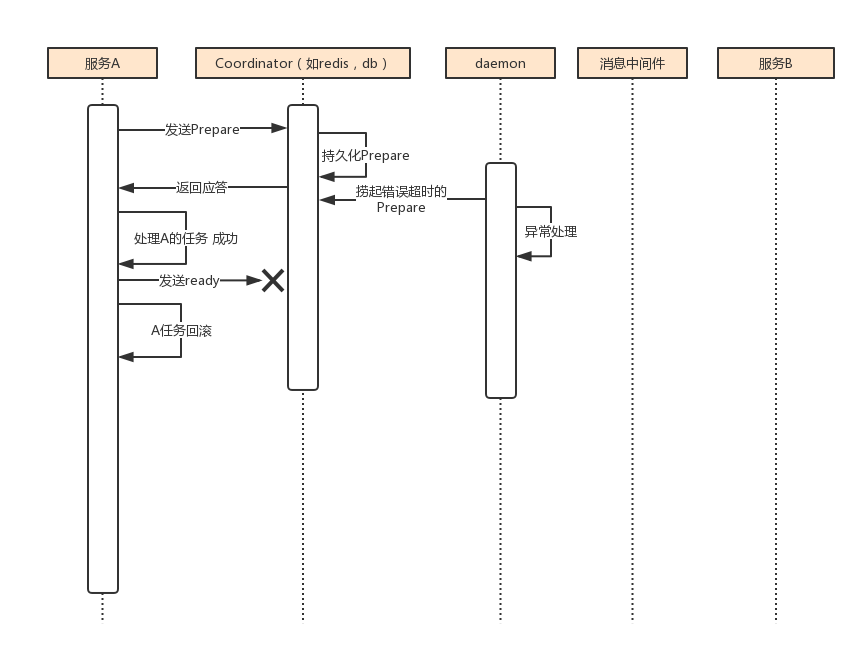
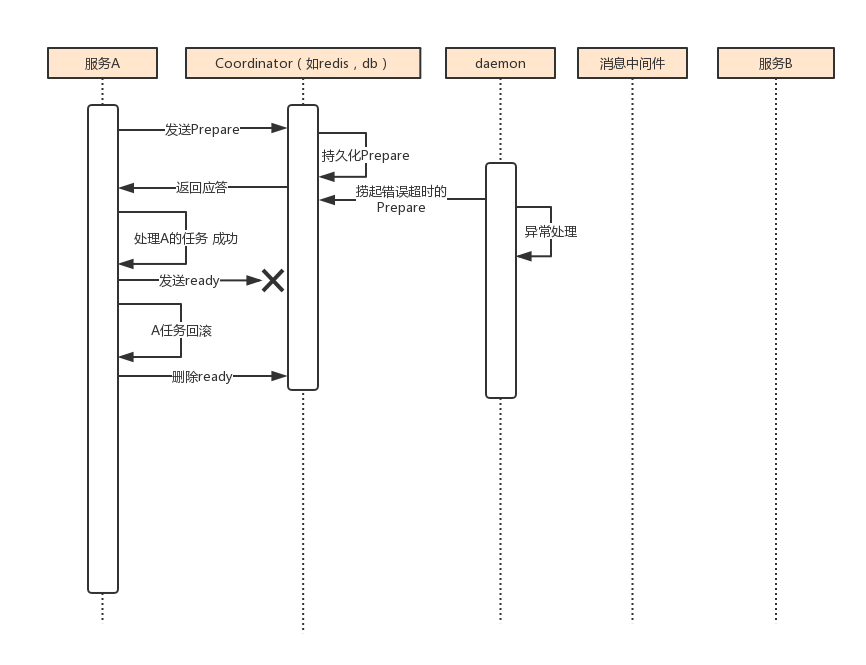
Update by Travis-CI 🎈

diff --git a/2018/12/04/分布式事务：基于可靠消息服务/index.html b/2018/12/04/分布式事务：基于可靠消息服务/index.html
@@ -106,7 +106,7 @@
 <meta property="og:image" content="https://github.com/7le/7le.github.io/raw/master/image/dis/other1.jpg">
 <meta property="og:image" content="https://github.com/7le/7le.github.io/raw/master/image/dis/other2.jpg">
 <meta property="og:image" content="https://github.com/7le/7le.github.io/raw/master/image/dis/other3.jpg">
-<meta property="og:updated_time" content="2018-12-12T15:24:05.668Z">
+<meta property="og:updated_time" content="2018-12-13T15:22:12.971Z">
 <meta name="twitter:card" content="summary">
 <meta name="twitter:title" content="分布式事务：基于可靠消息服务">
 <meta name="twitter:description" content="微服务倡导将复杂的单体应用拆分为若干个功能简单、松耦合的服务，而于此同时就会引入多个服务之间的分布式事务的问题。">
@@ -412,7 +412,7 @@
 <p>Coordinator提供了接口可以自己来实现，我默认实现的方式是用redis。对于这类中间件在生产环境中网络传输是有可能丢失的。</p>
 </blockquote>
 <p><img src="https://github.com/7le/7le.github.io/raw/master/image/dis/other2.jpg" alt="other2"></p>
-<p>上图表现的是发送ready记录的时候，失败了。这时候对于服务A是会收到异常或者收不到应答，这时候可以直接将之前的任务A进行回滚。同样如果异常是发生在发送prepare的情况下，这时候服务A还没执行任务也不会有影响。</p>
+<p>上图表现的是发送ready记录的时候，失败了。这时候对于服务A是会收到异常或者收不到应答，这时候可以直接将之前的任务A进行回滚,任务A在回滚的时候会触发删除ready的操作。同样如果异常是发生在发送prepare的情况下，这时候服务A还没执行任务也不会有影响。</p>
 <blockquote>
 <p>分析完服务A，Coordinator和消息中间件之间的一些情况后，现在分析下消息中间件和服务B之间的一些特殊情况。</p>
 </blockquote>
@@ -424,9 +424,16 @@
 <blockquote>
 <p>最后整理一下整个中间件的设计思路</p>
 </blockquote>
-<p>上面已经分析了下游服务和消息中间，我们可以通过消息中间件投递的可靠性来保证。 那么我们要实现分布式事务，剩下的就是要保证上游服务执行的任务和向消息中间件投递消息这2个操作的原子性。</p>
+<p>上面已经分析了下游服务和消息中间件，我们可以通过消息中间件投递的可靠性来保证。 那么我们要实现分布式事务，剩下的就是要保证上游服务执行的任务和向消息中间件投递消息这2个操作的原子性。</p>
 <p>这时候一般就会有两种方案，同步和异步通信。通过之前的时序图，很显然上游系统和消息中间件之间采用的是异步通信，这主要是为了提高系统并发度，另外业务系统直接和用户打交道，用户体验尤为重要，因此这种异步通信方式能够极大程度地降低用户等待时间。</p>
-<p>而异步通信的方式，rabbitmq也其实有提供事务机制，使用txSelect(), txCommit()以及txRollback()来实现，通过测试抓包发现，Tx.Commit与Tx.Commit-Ok之间的时间间隔会比较长，简单的测试能到300ms，这是很耗时的。所以我没有用这种方式，而是引入一个Coordinator（协调者）来实现，另外还有一个比较关键的daemon（守护线程），是处理在Coordinator一些错误超时的记录。通过这样的组合来替代消息中间件在执行事务遇到超时情况下的超时询问机制。</p>
+<p>而异步通信的方式，rabbitmq也其实有提供事务机制，使用txSelect(), txCommit()以及txRollback()来实现，通过测试抓包发现，Tx.Commit与Tx.Commit-Ok之间的时间间隔会比较长，简单的测试能到300ms，这是很耗时的。所以我没有用这种方式，而是引入一个Coordinator（协调者）来实现。</p>
+<p>另外还有一个比较关键的daemon（守护线程），是处理在Coordinator一些错误超时的记录（类似Rocketmq的超时询问机制）。所以服务A除了实现正常的业务流程外，还需提供一个事务询问的接口，供Coordinator调用。当有ready超时就会触发访问这个回查接口，该接口会返回三种结果：                                                                                                              </p>
+<ul>
+<li>提交 将该消息投递</li>
+<li>回滚 直接将条消息丢弃</li>
+<li>处理中 继续等待，重置时间。</li>
+</ul>
+<p>这样就能保证上游服务和消息中间件的原子性了，再通过消息中间件可靠的投递结合下游服务，就完成了分布式事务。</p>
 <hr>
 <p><a href="https://github.com/7le" target="_blank" rel="noopener">Github</a> 不要吝啬你的star ^.^<br><a href="https://7le.top" target="_blank" rel="noopener">更多精彩 戳我</a></p>
 

diff --git a/2017/06/25/RESTful架构/index.html b/2017/06/25/RESTful架构/index.html
@@ -103,7 +103,7 @@
 <meta property="og:description" content="在互联网的爆炸的时代下，”微服务”的概念也越来越被大家接受并应用于实践，日益增多的web service使RESTful越来越热。本文就整理一下我对RESTful 架构风格的一些理解，供大家参考拍砖~">
 <meta property="og:locale" content="zh-Hans">
 <meta property="og:image" content="https://github.com/7le/7le.github.io/raw/master/image/rest/rest-1.png">
-<meta property="og:updated_time" content="2018-12-12T15:24:05.668Z">
+<meta property="og:updated_time" content="2018-12-13T15:22:12.971Z">
 <meta name="twitter:card" content="summary">
 <meta name="twitter:title" content="RESTful架构">
 <meta name="twitter:description" content="在互联网的爆炸的时代下，”微服务”的概念也越来越被大家接受并应用于实践，日益增多的web service使RESTful越来越热。本文就整理一下我对RESTful 架构风格的一些理解，供大家参考拍砖~">

diff --git a/2017/05/26/springboot项目笔记：(一)搭建项目/index.html b/2017/05/26/springboot项目笔记：(一)搭建项目/index.html
@@ -106,7 +106,7 @@
 <meta property="og:image" content="https://github.com/7le/7le.github.io/raw/master/image/springboot/springboot-idea-1-2.png">
 <meta property="og:image" content="https://github.com/7le/7le.github.io/raw/master/image/springboot/springboot-idea-1-3.png">
 <meta property="og:image" content="https://github.com/7le/7le.github.io/raw/master/image/springboot/springboot-idea-1-4.png">
-<meta property="og:updated_time" content="2018-12-12T15:24:05.668Z">
+<meta property="og:updated_time" content="2018-12-13T15:22:12.971Z">
 <meta name="twitter:card" content="summary">
 <meta name="twitter:title" content="springboot项目笔记：(一)搭建项目">
 <meta name="twitter:description" content="springboot的评价一直很高，那就用它来做一次完整的项目，现在就一点点记录下来，可以以后自己翻看，也可以帮助各位第一次使用springboot的小伙伴们">

diff --git a/2017/06/21/springboot项目笔记：(六) 视频截图和转码/index.html b/2017/06/21/springboot项目笔记：(六) 视频截图和转码/index.html
@@ -103,7 +103,7 @@
 <meta property="og:description" content="项目是一个简单的视频点播系统，涉及到了视频的截图和转码，所用到的工具是ffmpeg，遇到了些坑，做一个完整的记录，利人利己 ^.^">
 <meta property="og:locale" content="zh-Hans">
 <meta property="og:image" content="https://github.com/7le/7le.github.io/raw/master/image/springboot/springboot-6-1.png">
-<meta property="og:updated_time" content="2018-12-12T15:24:05.668Z">
+<meta property="og:updated_time" content="2018-12-13T15:22:12.971Z">
 <meta name="twitter:card" content="summary">
 <meta name="twitter:title" content="springboot项目笔记：(六) 视频截图和转码">
 <meta name="twitter:description" content="项目是一个简单的视频点播系统，涉及到了视频的截图和转码，所用到的工具是ffmpeg，遇到了些坑，做一个完整的记录，利人利己 ^.^">

diff --git a/2017/06/27/致敬蒙蒂-威廉姆斯/index.html b/2017/06/27/致敬蒙蒂-威廉姆斯/index.html
@@ -103,7 +103,7 @@
 <meta property="og:description" content="在今天的NBA颁奖礼上，圣安东尼奥篮球运营部副主席蒙蒂-威廉姆斯成为了首届“赛格坚强奖”得主。蒙蒂-威廉姆斯，一个拥有真正力量的男人。">
 <meta property="og:locale" content="zh-Hans">
 <meta property="og:image" content="https://github.com/7le/7le.github.io/raw/master/image/man.jpeg">
-<meta property="og:updated_time" content="2018-12-12T15:24:05.668Z">
+<meta property="og:updated_time" content="2018-12-13T15:22:12.971Z">
 <meta name="twitter:card" content="summary">
 <meta name="twitter:title" content="致敬蒙蒂-威廉姆斯">
 <meta name="twitter:description" content="在今天的NBA颁奖礼上，圣安东尼奥篮球运营部副主席蒙蒂-威廉姆斯成为了首届“赛格坚强奖”得主。蒙蒂-威廉姆斯，一个拥有真正力量的男人。">

diff --git a/2017/06/04/springboot项目笔记：(二)集成redis，mybatis，swagger/index.html b/2017/06/04/springboot项目笔记：(二)集成redis，mybatis，swagger/index.html
@@ -106,7 +106,7 @@
 <meta property="og:image" content="https://github.com/7le/7le.github.io/raw/master/image/springboot/springboot-2-2.png">
 <meta property="og:image" content="https://github.com/7le/7le.github.io/raw/master/image/springboot/springboot-2-3.png">
 <meta property="og:image" content="https://github.com/7le/7le.github.io/raw/master/image/springboot/springboot-2-4.png">
-<meta property="og:updated_time" content="2018-12-12T15:24:05.668Z">
+<meta property="og:updated_time" content="2018-12-13T15:22:12.971Z">
 <meta name="twitter:card" content="summary">
 <meta name="twitter:title" content="springboot项目笔记：(二)集成redis，mybatis，swagger">
 <meta name="twitter:description" content="在搭建完springboot项目后，接下来就是要集成一些好东西。接下来本文中会集成redis，mybatis，swagger，pagehelper。">

diff --git a/2017/12/17/发布jar包到Maven中央库--小记/index.html b/2017/12/17/发布jar包到Maven中央库--小记/index.html
@@ -109,7 +109,7 @@
 <meta property="og:image" content="https://github.com/7le/7le.github.io/raw/master/image/maven/maven-manager2.png">
 <meta property="og:image" content="https://github.com/7le/7le.github.io/raw/master/image/maven/gpg-key.png">
 <meta property="og:image" content="https://github.com/7le/7le.github.io/raw/master/image/maven/maven-search.png">
-<meta property="og:updated_time" content="2018-12-12T15:24:05.668Z">
+<meta property="og:updated_time" content="2018-12-13T15:22:12.971Z">
 <meta name="twitter:card" content="summary">
 <meta name="twitter:title" content="发布jar包到Maven中央库--小记">
 <meta name="twitter:description" content="最近项目选用了vert.x，故此简单的封装了一下，好达到从spring体系到vert.x平滑过度，减少其他人的学习成本，而后发布到Maven中央库，记录一下~">

diff --git a/2018/04/18/springcloud：实现zuul的动态路由和集群通知/index.html b/2018/04/18/springcloud：实现zuul的动态路由和集群通知/index.html
@@ -102,7 +102,7 @@
 <meta property="og:site_name" content="Shine">
 <meta property="og:description" content="springboot2.x出来也有一小段时间了，之前一直钟情于vert.x的响应式编程，随着springboot2.x和spring-webflux的整合，那就结合springcloud全家桶玩起来~">
 <meta property="og:locale" content="zh-Hans">
-<meta property="og:updated_time" content="2018-12-12T15:24:05.668Z">
+<meta property="og:updated_time" content="2018-12-13T15:22:12.971Z">
 <meta name="twitter:card" content="summary">
 <meta name="twitter:title" content="springcloud：实现zuul的动态路由和集群通知">
 <meta name="twitter:description" content="springboot2.x出来也有一小段时间了，之前一直钟情于vert.x的响应式编程，随着springboot2.x和spring-webflux的整合，那就结合springcloud全家桶玩起来~">

diff --git a/2017/05/14/设计模式-单例模式/index.html b/2017/05/14/设计模式-单例模式/index.html
@@ -102,7 +102,7 @@
 <meta property="og:site_name" content="Shine">
 <meta property="og:description" content="本以为单例模式就是简单的模式，非常清晰明了，今天跟老袁一聊天，让我更多的了解了它的精妙之处，以及要写出精妙的单例模式也是很有讲究。">
 <meta property="og:locale" content="zh-Hans">
-<meta property="og:updated_time" content="2018-12-12T15:24:05.668Z">
+<meta property="og:updated_time" content="2018-12-13T15:22:12.971Z">
 <meta name="twitter:card" content="summary">
 <meta name="twitter:title" content="设计模式--单例模式">
 <meta name="twitter:description" content="本以为单例模式就是简单的模式，非常清晰明了，今天跟老袁一聊天，让我更多的了解了它的精妙之处，以及要写出精妙的单例模式也是很有讲究。">

diff --git a/2017/06/19/springboot项目笔记：(五) 部署和远程调试/index.html b/2017/06/19/springboot项目笔记：(五) 部署和远程调试/index.html
@@ -106,7 +106,7 @@
 <meta property="og:image" content="https://github.com/7le/7le.github.io/raw/master/image/springboot/springboot-5-2.png">
 <meta property="og:image" content="https://github.com/7le/7le.github.io/raw/master/image/springboot/springboot-5-3.png">
 <meta property="og:image" content="https://github.com/7le/7le.github.io/raw/master/image/springboot/springboot-5-4.png">
-<meta property="og:updated_time" content="2018-12-12T15:24:05.668Z">
+<meta property="og:updated_time" content="2018-12-13T15:22:12.971Z">
 <meta name="twitter:card" content="summary">
 <meta name="twitter:title" content="springboot项目笔记：(五) 部署和远程调试">
 <meta name="twitter:description" content="springboot部署的方式非常简单好用，接下来介绍下如何在Linux下部署项目，以及如何进行远程调式。">

diff --git a/2018/05/29/springcloud：ribbon配置和zuul重试源码解读/index.html b/2018/05/29/springcloud：ribbon配置和zuul重试源码解读/index.html
@@ -103,7 +103,7 @@
 <meta property="og:description" content="最近刚刚把springcloud的版本升级到Finchley.RC1，就遇到些小麻烦，分享一下解决的过程和收获。">
 <meta property="og:locale" content="zh-Hans">
 <meta property="og:image" content="https://github.com/7le/7le.github.io/raw/master/image/springcloud/propertySources.PNG">
-<meta property="og:updated_time" content="2018-12-12T15:24:05.668Z">
+<meta property="og:updated_time" content="2018-12-13T15:22:12.971Z">
 <meta name="twitter:card" content="summary">
 <meta name="twitter:title" content="springcloud：ribbon配置和zuul重试源码解读">
 <meta name="twitter:description" content="最近刚刚把springcloud的版本升级到Finchley.RC1，就遇到些小麻烦，分享一下解决的过程和收获。">

diff --git a/2018/06/11/springcloud：webflux源码浅析/index.html b/2018/06/11/springcloud：webflux源码浅析/index.html
@@ -104,7 +104,7 @@
 <meta property="og:locale" content="zh-Hans">
 <meta property="og:image" content="https://github.com/7le/7le.github.io/raw/master/image/springcloud/event-loop.png">
 <meta property="og:image" content="https://github.com/7le/7le.github.io/raw/master/image/springcloud/thread-process.png">
-<meta property="og:updated_time" content="2018-12-12T15:24:05.668Z">
+<meta property="og:updated_time" content="2018-12-13T15:22:12.971Z">
 <meta name="twitter:card" content="summary">
 <meta name="twitter:title" content="springcloud：webflux源码浅析">
 <meta name="twitter:description" content="spring-webflux采用了事件驱动异步非阻塞模式，借助EventLoop以少量线程应对高并发的访问，这样的改变使spring也变得像vert.x一样有趣~">
